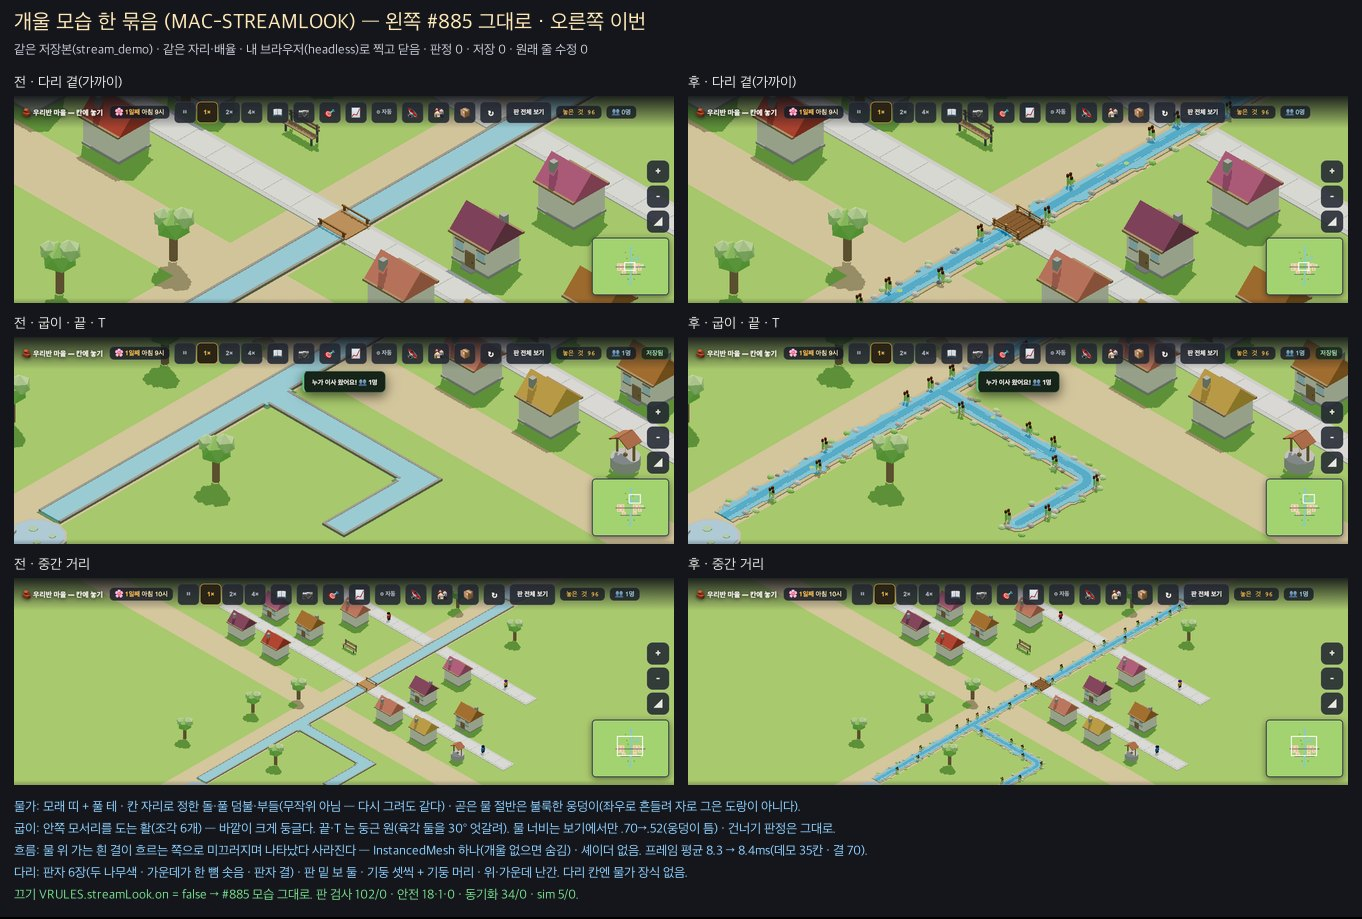
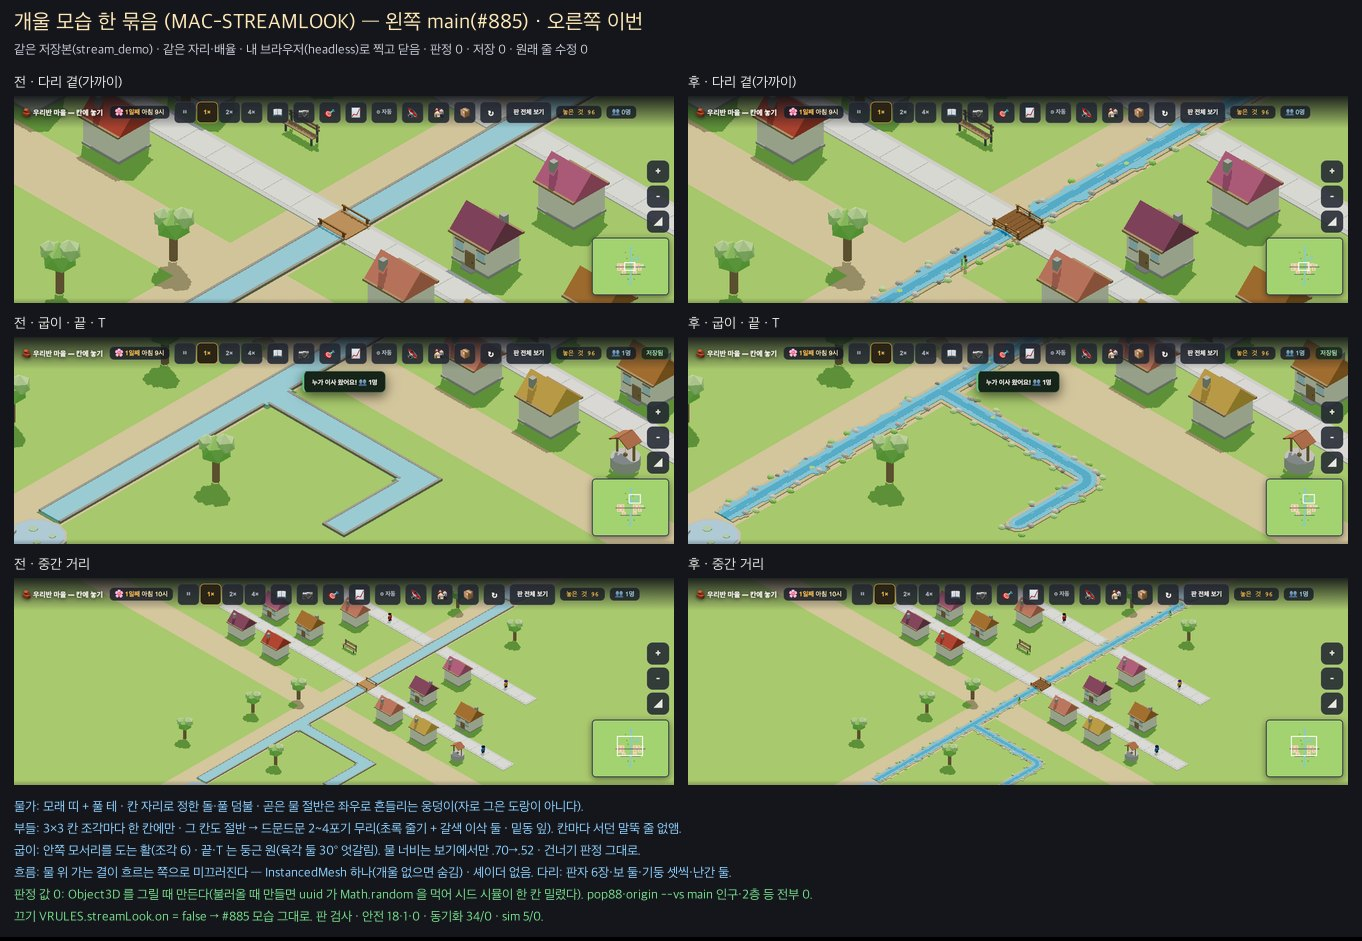
fix(village): 개울 모습 — 판정 값 0 으로(Object3D 를 그릴 때 만든다) · 부들은 드문드문 무리로 (#906 보스 검토)
① 기준 ① FAIL: --vs main 에서 pop88 인구 +0.5 · origin 인구 −1 · 2층 −1. 원인은 불러올 때 만든
   THREE.Object3D — uuid 를 Math.random 으로 뽑아 시드 시뮬의 난수 차례가 한 칸 밀렸다. 그릴 때 처음 만든다.
   고친 뒤 pop88 · starts/origin.json 모두 인구·2층이상·웃는집·붐빔집·일먼집·일닿음% 차이 0(시드 1~2 · 2일).
② 부들이 물가 양쪽에 칸마다 서서 울타리 말뚝 줄처럼 읽혔다 → 3×3 칸 조각마다 한 칸에만 · 그 칸도 절반 ·
   2~4포기(초록 줄기 + 갈색 이삭 둘까지 · 밑동 잎 덩이).

diff --git a/village/index.html b/village/index.html
@@ -3004,11 +3004,14 @@ function streamLookParts(rec) {
   /* 풀 덤불 — 물가 바깥 가장자리에 둥근 잎 덩이(물가 선이 들쭉날쭉해진다 · 잎 색이라 철 따라 바뀐다) */
   sides.forEach((sd, k) => { const h = slookHash(x, y, k + 61); if (h > .7) return; const t = (slookHash(x, y, k + 71) - .5) * CS * .7, [px, pz] = bank(k + 9, R.dirt * .5 + .25, t);
     out.push({ g: 'sph', c: h < .35 ? P.leaf : P.leafL, s: [.46, .3, .4], p: [cx + px, .14, cz + pz], abs: true }); });
-  /* 갈대 한 무리 — 한 칸에 한 곳(부들: 줄기 + 갈색 이삭) */
-  if (sides.length && !bridge && slookHash(x, y, 22) < .6) { const k = Math.floor(slookHash(x, y, 21) * sides.length), t = (slookHash(x, y, 23) - .5) * CS * .5, [bx, bz] = bank(k + 13, 0, t);
-    [[0, 0, 1.4], [.24, .12, 1.1], [-.22, .2, 1.2], [.1, -.2, .9], [-.36, -.06, .8]].forEach(([a, o, ht], j) => { const px = bx + a, pz = bz + o;
-      box(j % 2 ? P.leafL : P.leaf, [.12, ht, .12], [px, ht / 2, pz]);
-      if (j < 3) box(0x7a4b2a, [.2, .34, .2], [px, ht + .1, pz]); }); }
+  /* 부들 한 무리 — 3×3 칸 조각마다 **한 칸에만**(조각 안 자리는 해시로) · 그 칸도 절반만 → 드문드문 무리로(칸마다 서면 울타리 말뚝 줄처럼 읽혔다 · 보스 #906)
+     2~4포기 · 초록 줄기 + 갈색 이삭(둘까지) · 밑동에 잎 덩이 */
+  const bx0 = Math.floor(x / 3), by0 = Math.floor(y / 3), pick = Math.floor(slookHash(bx0, by0, 24) * 9);
+  if (sides.length && !bridge && (x - bx0 * 3) + 3 * (y - by0 * 3) === pick && slookHash(bx0, by0, 25) < .55) { const k = Math.floor(slookHash(x, y, 21) * sides.length), t = (slookHash(x, y, 23) - .5) * CS * .5, [bx, bz] = bank(k + 13, 0, t), n = 2 + Math.floor(slookHash(x, y, 26) * 3);
+    out.push({ g: 'sph', c: P.leaf, s: [.42, .2, .36], p: [cx + bx, .14, cz + bz], abs: true });
+    [[0, 0, 1.25], [.26, .14, 1.0], [-.24, .18, 1.1], [.12, -.22, .85]].slice(0, n).forEach(([a, o, ht], j) => { const px = bx + a, pz = bz + o;
+      box(j % 2 ? P.leafL : P.leaf, [.14, ht, .14], [px, ht / 2, pz]);
+      if (j < 2) box(0x9a6a3a, [.17, .3, .17], [px, ht + .1, pz]); }); }
   if (straight && !bridge && slookHash(x, y, 31) < .22) { const u = (slookHash(x, y, 32) - .5) * CS * .5, v = (slookHash(x, y, 33) - .5) * Wd * .8;
     disk(P.leaf, .3, .03, jn.n ? v : u, jn.n ? u : v, R.waterH + .02); }
   if (!bridge) return out;
@@ -3033,12 +3036,13 @@ function streamLookScan(now) { const L = []; SLOOK.dirty = false; SLOOK.scanT = 
 function streamFlowMesh() { if (SLOOK.mesh) return SLOOK.mesh;
   const m = new THREE.InstancedMesh(new THREE.BoxGeometry(1, .02, .1), new THREE.MeshLambertMaterial({ color: 0xf2fbff, emissive: 0x2a4a58, transparent: true, opacity: .6, depthWrite: false }), window.VRULES.streamLook.flowCap || 600);
   m.count = 0; m.frustumCulled = false; m.renderOrder = 1; scene.add(m); SLOOK.mesh = m; return m; }
-const _slookD = new THREE.Object3D();
+let _slookD = null;   // 그릴 때 처음 만든다 — Object3D 는 uuid 를 Math.random 으로 뽑아, 불러올 때 만들면 시드 시뮬의 난수 차례가 한 칸 밀린다(판정 값이 움직였다 · 보스 #906 기준 ①)
 function streamFlowDraw(now) {
   const R = window.VRULES.streamLook;
   if (!R.on || !window.VRULES.stream.on) { if (SLOOK.mesh) { SLOOK.mesh.count = 0; SLOOK.mesh.visible = false; } return; }
   if (SLOOK.dirty || now - SLOOK.scanT > 2000) streamLookScan(now);
   if (!SLOOK.list.length) { if (SLOOK.mesh) { SLOOK.mesh.count = 0; SLOOK.mesh.visible = false; } return; }
+  if (!_slookD) _slookD = new THREE.Object3D();
   const im = streamFlowMesh(), cap = Math.min(R.flowCap || 600, im.instanceMatrix.count), Wd = CS * (R.width || window.VRULES.stream.width || .62) / 2, y = R.waterH + .02; let k = 0;
   for (const c of SLOOK.list) { if (k >= cap) break;
     for (let j = 0; j < 2 && k < cap; j++) { const ph = (now / (R.flowMs || 5200) + c.h * 3 + j * .5) % 1, fade = Math.sin(Math.PI * ph);
